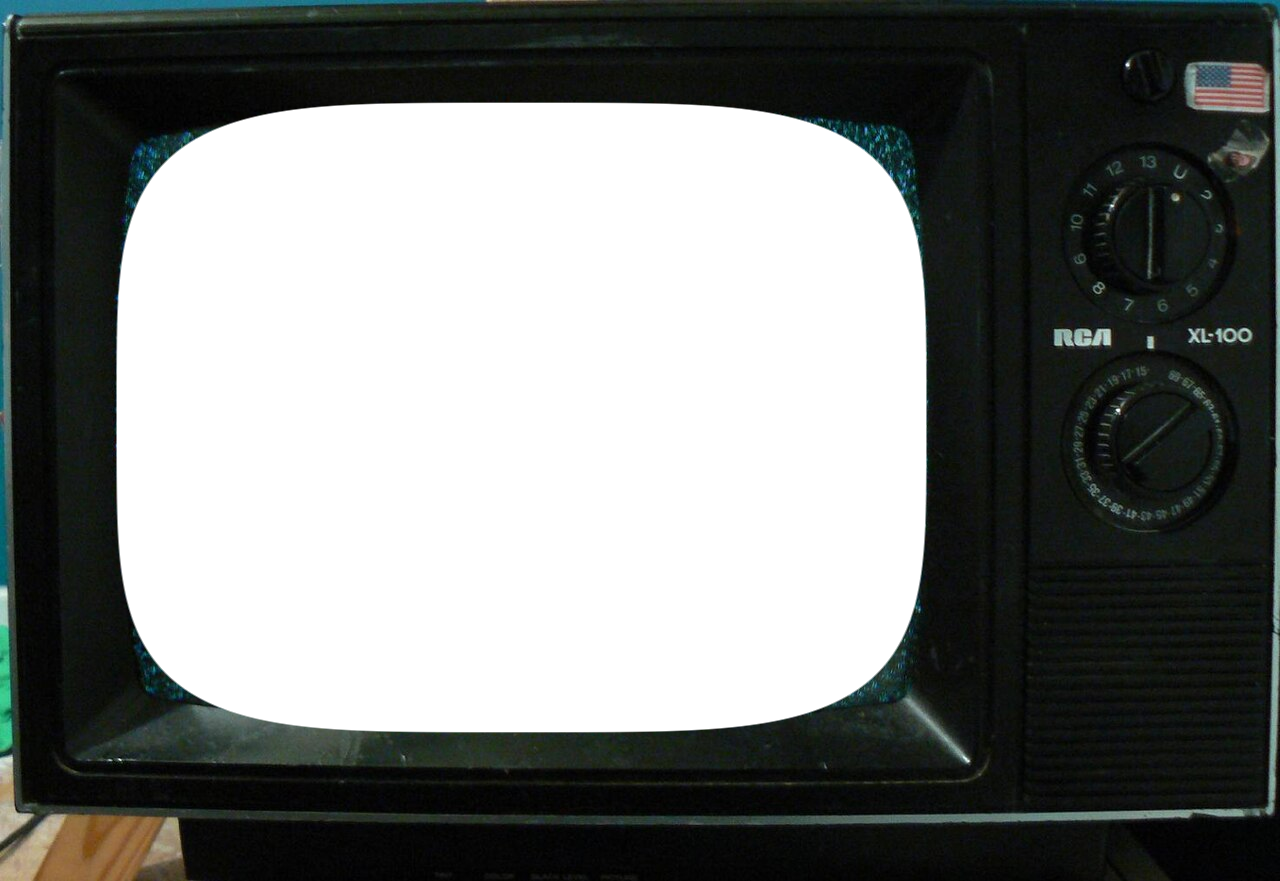
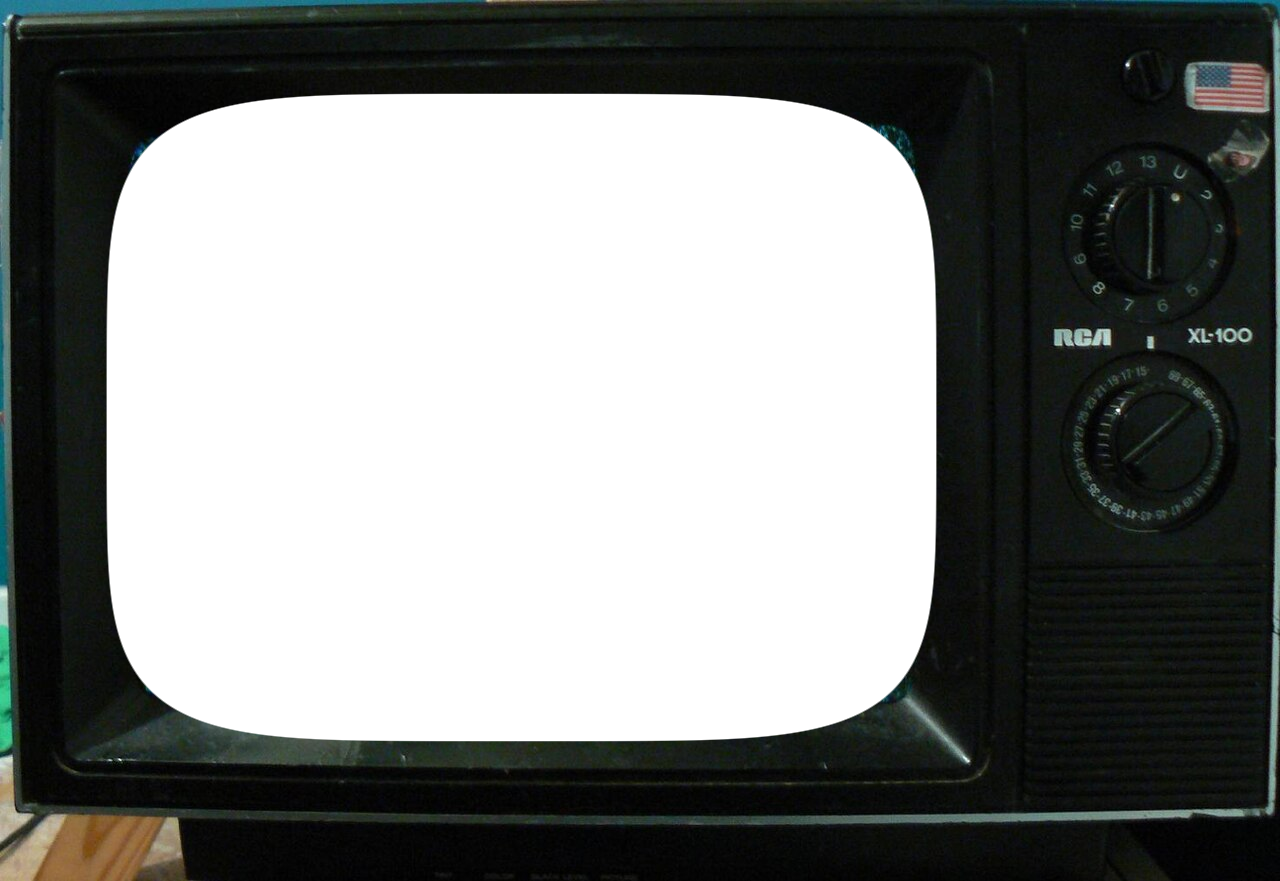
WIP checkpoint
Claude-Session: https://claude.ai/code/session_017jFZyLRaZgvs1oTMXrXxKe

Changed region(s): [[0.0625, 0.0919, 0.75, 0.8581]]

diff --git a/compositions/c5s02.html b/compositions/c5s02.html
@@ -820,8 +820,8 @@
       add(sh, `<div class="k-full" style="background:radial-gradient(ellipse 70% 60% at 50% 40%, #2c241c 0%, #15120f 60%, #0b0a09 100%)"></div>`);
       add(sh, `<div class="k-abs" style="left:0;top:880px;width:1920px;height:200px;background:linear-gradient(180deg,#3a2a1c,#1b130c)"></div>`);
       const c = add(sh, `<div class="k-full" style="transform-origin:857px 498px"></div>`);
-      const tube = add(c, `<div class="k-tube" style="left:508px;top:228px;width:700px;height:543px"></div>`);
-      const scr = add(tube, `<div class="k-full" style="left:0;top:0;width:700px;height:543px;transform-origin:50% 50%"><img src="${PH}nixon_official_portrait_nara530679.jpg" style="position:absolute;left:0;top:-140px;width:700px;height:827px;object-fit:cover;filter:saturate(0.6) contrast(1.15) brightness(1.05) blur(0.7px)"/><div class="k-scan"></div><div class="k-full" style="width:700px;height:543px;background:radial-gradient(ellipse at 50% 50%, rgba(255,255,255,0.08), rgba(0,0,0,0.5) 100%)"></div></div>`);
+      const tube = add(c, `<div class="k-tube" style="left:496px;top:216px;width:724px;height:566px"></div>`);
+      const scr = add(tube, `<div class="k-full" style="left:0;top:0;width:724px;height:566px;transform-origin:50% 50%"><img src="${PH}nixon_official_portrait_nara530679.jpg" style="position:absolute;left:0;top:-140px;width:724px;height:855px;object-fit:cover;filter:saturate(0.6) contrast(1.15) brightness(1.05) blur(0.7px)"/><div class="k-scan"></div><div class="k-full" style="width:700px;height:543px;background:radial-gradient(ellipse at 50% 50%, rgba(255,255,255,0.08), rgba(0,0,0,0.5) 100%)"></div></div>`);
       const crt = add(tube, `<div class="k-full" style="width:700px;height:543px;background:#fff;opacity:0"></div>`);
       add(c, `<img src="assets/c5/screens/rca_xl100_frame.png" style="position:absolute;left:410px;top:140px;width:1100px;height:757px;filter:brightness(0.85) contrast(1.05)"/>`);
       add(c, `<div class="k-abs" style="left:520px;top:236px;width:420px;height:200px;background:linear-gradient(160deg, rgba(255,255,255,0.10), rgba(255,255,255,0) 60%);pointer-events:none"></div>`);
@@ -872,10 +872,9 @@
       for (let h = 1; h <= 12; h++) { const a = h * Math.PI / 6; face += `<text x="${(Math.sin(a) * 222).toFixed(1)}" y="${(-Math.cos(a) * 222 + 20).toFixed(1)}" text-anchor="middle" font-size="58" fill="${INK}" class="t-serif">${h}</text>`; }
       ck.innerHTML = face + `<g id="${SEG}-hh"><path d="M-12 30 L-8 -160 L0 -176 L8 -160 L12 30 Z" fill="${INK}"/></g><g id="${SEG}-mh"><path d="M-8 36 L-5 -258 L0 -272 L5 -258 L8 36 Z" fill="${INK}"/></g><circle r="16" fill="${INK}"/><circle r="6" fill="#b9a98a"/>`;
       const hh = $("hh"), mh = $("mh");
-      gsap.set(hh, { rotation: 30 * 5 + 6, transformOrigin: "0 0", svgOrigin: "0 0" });
-      gsap.set(mh, { rotation: 72, svgOrigin: "0 0" });
-      tl.fromTo(mh, { rotation: 72 }, { rotation: 72 - 360, duration: 1.4, ease: C(E.inOut, 1.4), svgOrigin: "0 0", immediateRender: true }, S(315.88));
-      tl.fromTo(hh, { rotation: 156 }, { rotation: 126, duration: 1.4, ease: C(E.inOut, 1.4), svgOrigin: "0 0", immediateRender: true }, S(315.88));
+      const hand = { m: 72, h: 156 }, setH = () => { mh.setAttribute("transform", `rotate(${hand.m.toFixed(2)})`); hh.setAttribute("transform", `rotate(${hand.h.toFixed(2)})`); };
+      setH();
+      tl.fromTo(hand, { m: 72, h: 156 }, { m: 72 - 360, h: 126, duration: 1.4, ease: C(E.inOut, 1.4), onUpdate: setH, immediateRender: true }, S(315.88));
       tl.fromTo(ck, { opacity: 0, scale: 0.92 }, { opacity: 1, scale: 1, duration: 0.8, ease: C(E.out, 0.8), immediateRender: true }, S(314.98));
       const ln = add(c, `<div class="k-abs t-serif k-ink" style="left:1000px;top:250px;font-size:96px;white-space:nowrap"><span class="k-inkbox" style="color:${YEL};font-weight:700"><span class="k-w">an </span><span class="k-w">hour</span></span> <span class="k-w">before</span></div>`);
       ln.w = ln.querySelectorAll(".k-w"); say(ln, [T(315.84), T(316.00), T(316.40)], { dur: 0.7, y: 10 });

diff --git a/project/c5/gen/c5s02_template.html b/project/c5/gen/c5s02_template.html
@@ -820,8 +820,8 @@
       add(sh, `<div class="k-full" style="background:radial-gradient(ellipse 70% 60% at 50% 40%, #2c241c 0%, #15120f 60%, #0b0a09 100%)"></div>`);
       add(sh, `<div class="k-abs" style="left:0;top:880px;width:1920px;height:200px;background:linear-gradient(180deg,#3a2a1c,#1b130c)"></div>`);
       const c = add(sh, `<div class="k-full" style="transform-origin:857px 498px"></div>`);
-      const tube = add(c, `<div class="k-tube" style="left:508px;top:228px;width:700px;height:543px"></div>`);
-      const scr = add(tube, `<div class="k-full" style="left:0;top:0;width:700px;height:543px;transform-origin:50% 50%"><img src="${PH}nixon_official_portrait_nara530679.jpg" style="position:absolute;left:0;top:-140px;width:700px;height:827px;object-fit:cover;filter:saturate(0.6) contrast(1.15) brightness(1.05) blur(0.7px)"/><div class="k-scan"></div><div class="k-full" style="width:700px;height:543px;background:radial-gradient(ellipse at 50% 50%, rgba(255,255,255,0.08), rgba(0,0,0,0.5) 100%)"></div></div>`);
+      const tube = add(c, `<div class="k-tube" style="left:496px;top:216px;width:724px;height:566px"></div>`);
+      const scr = add(tube, `<div class="k-full" style="left:0;top:0;width:724px;height:566px;transform-origin:50% 50%"><img src="${PH}nixon_official_portrait_nara530679.jpg" style="position:absolute;left:0;top:-140px;width:724px;height:855px;object-fit:cover;filter:saturate(0.6) contrast(1.15) brightness(1.05) blur(0.7px)"/><div class="k-scan"></div><div class="k-full" style="width:700px;height:543px;background:radial-gradient(ellipse at 50% 50%, rgba(255,255,255,0.08), rgba(0,0,0,0.5) 100%)"></div></div>`);
       const crt = add(tube, `<div class="k-full" style="width:700px;height:543px;background:#fff;opacity:0"></div>`);
       add(c, `<img src="assets/c5/screens/rca_xl100_frame.png" style="position:absolute;left:410px;top:140px;width:1100px;height:757px;filter:brightness(0.85) contrast(1.05)"/>`);
       add(c, `<div class="k-abs" style="left:520px;top:236px;width:420px;height:200px;background:linear-gradient(160deg, rgba(255,255,255,0.10), rgba(255,255,255,0) 60%);pointer-events:none"></div>`);
@@ -872,10 +872,9 @@
       for (let h = 1; h <= 12; h++) { const a = h * Math.PI / 6; face += `<text x="${(Math.sin(a) * 222).toFixed(1)}" y="${(-Math.cos(a) * 222 + 20).toFixed(1)}" text-anchor="middle" font-size="58" fill="${INK}" class="t-serif">${h}</text>`; }
       ck.innerHTML = face + `<g id="${SEG}-hh"><path d="M-12 30 L-8 -160 L0 -176 L8 -160 L12 30 Z" fill="${INK}"/></g><g id="${SEG}-mh"><path d="M-8 36 L-5 -258 L0 -272 L5 -258 L8 36 Z" fill="${INK}"/></g><circle r="16" fill="${INK}"/><circle r="6" fill="#b9a98a"/>`;
       const hh = $("hh"), mh = $("mh");
-      gsap.set(hh, { rotation: 30 * 5 + 6, transformOrigin: "0 0", svgOrigin: "0 0" });
-      gsap.set(mh, { rotation: 72, svgOrigin: "0 0" });
-      tl.fromTo(mh, { rotation: 72 }, { rotation: 72 - 360, duration: 1.4, ease: C(E.inOut, 1.4), svgOrigin: "0 0", immediateRender: true }, S(315.88));
-      tl.fromTo(hh, { rotation: 156 }, { rotation: 126, duration: 1.4, ease: C(E.inOut, 1.4), svgOrigin: "0 0", immediateRender: true }, S(315.88));
+      const hand = { m: 72, h: 156 }, setH = () => { mh.setAttribute("transform", `rotate(${hand.m.toFixed(2)})`); hh.setAttribute("transform", `rotate(${hand.h.toFixed(2)})`); };
+      setH();
+      tl.fromTo(hand, { m: 72, h: 156 }, { m: 72 - 360, h: 126, duration: 1.4, ease: C(E.inOut, 1.4), onUpdate: setH, immediateRender: true }, S(315.88));
       tl.fromTo(ck, { opacity: 0, scale: 0.92 }, { opacity: 1, scale: 1, duration: 0.8, ease: C(E.out, 0.8), immediateRender: true }, S(314.98));
       const ln = add(c, `<div class="k-abs t-serif k-ink" style="left:1000px;top:250px;font-size:96px;white-space:nowrap"><span class="k-inkbox" style="color:${YEL};font-weight:700"><span class="k-w">an </span><span class="k-w">hour</span></span> <span class="k-w">before</span></div>`);
       ln.w = ln.querySelectorAll(".k-w"); say(ln, [T(315.84), T(316.00), T(316.40)], { dur: 0.7, y: 10 });

diff --git a/compositions/c5s01.html b/compositions/c5s01.html
@@ -1304,9 +1304,10 @@
       pop("sc031-a", S(137.85), { from: 0.7, dur: 1.0 });
       pop("sc031-b", S(139.19), { from: 0.6, dur: 1.0 });
       words("sc031-tg", [["Taiwanese", T(139.21) - L], ["government", T(139.85) - L]]);
-      FX.markup.arrow(tl, svg, S(140.40), { x1: 760, y1: 400, x2: 1180, y2: 400, bend: -110, head: 30, dur: 0.75, color: INK, width: 6, filter: MK });
+      const hideTill = (ps, t) => { gsap.set(ps, { opacity: 0 }); tl.set(ps, { opacity: 1 }, t); };
+      hideTill(FX.markup.arrow(tl, svg, S(140.40), { x1: 760, y1: 400, x2: 1180, y2: 400, bend: -110, head: 30, dur: 0.75, color: INK, width: 6, filter: MK }), S(140.40));
       words("sc031-ad", [["advice", T(141.29) - L]]);
-      FX.markup.arrow(tl, svg, S(142.40), { x1: 1190, y1: 600, x2: 740, y2: 600, bend: -110, head: 30, dur: 0.75, color: INK, width: 6, filter: MK });
+      hideTill(FX.markup.arrow(tl, svg, S(142.40), { x1: 1190, y1: 600, x2: 740, y2: 600, bend: -110, head: 30, dur: 0.75, color: INK, width: 6, filter: MK }, S(142.40));
       words("sc031-in", [["information", T(142.81) - L]]);
       drop("sc031-gl", S(145.20), { dur: 0.7 });
       const gl = $("sc031-gline"); const gL = gl.getTotalLength();
@@ -1366,7 +1367,7 @@
       const c = $("sc036-cam"), svg = $("sc036-svg");
       gsap.set(c, cam(1350, 1150, 0.72));
       tl.fromTo(c, cam(1350, 1150, 0.72), Object.assign(cam(1450, 1330, 0.84), { duration: 6.9, ease: E.cam, immediateRender: true }), S(163.77));
-      tl.fromTo($("sc036-cf"), { opacity: 0 }, { opacity: 0.78, duration: 1.0, ease: C(E.out, 1.0), immediateRender: true }, S(166.17));
+      tl.fromTo($("sc036-cf"), { opacity: 0 }, { opacity: 0.6, duration: 1.0, ease: C(E.out, 1.0), immediateRender: true }, S(166.17));
       tl.fromTo($("sc036-cg"), { opacity: 0 }, { opacity: 0.9, duration: 1.2, ease: C(E.out, 1.2), immediateRender: true }, S(166.30));
       const lab = $("sc036-lab");
       [[["bigger", T(166.17) - L], ["economy", T(166.49) - L]], [["bigger", T(167.61) - L], ["landmass", T(167.93) - L]], [["bigger", T(168.65) - L], ["population", T(169.05) - L]]].forEach((ws, i) => {
@@ -1467,8 +1468,8 @@
     (function () {
       tl.fromTo($("sc042-cam"), { scale: 1.0 }, { scale: 1.06, duration: 3.1, ease: "none", immediateRender: true }, S(191.10));
       const svg = $("sc042-mk");
-      FX.markup.arrow(tl, svg, S(192.10), { x1: 900, y1: 520, x2: 420, y2: 820, bend: 60, head: 36, dur: 0.6, color: RED, width: 10, filter: MK });
-      FX.markup.arrow(tl, svg, S(192.40), { x1: 1000, y1: 520, x2: 1560, y2: 230, bend: 120, head: 36, dur: 0.7, color: CEL, width: 10, filter: MK });
+      { const ps = FX.markup.arrow(tl, svg, S(192.10), { x1: 900, y1: 520, x2: 420, y2: 820, bend: 60, head: 36, dur: 0.6, color: RED, width: 10, filter: MK }); gsap.set(ps, { opacity: 0 }); tl.set(ps, { opacity: 1 }, S(192.10)); }
+      { const ps = FX.markup.arrow(tl, svg, S(192.40), { x1: 1000, y1: 520, x2: 1560, y2: 230, bend: 120, head: 36, dur: 0.7, color: CEL, width: 10, filter: MK }); gsap.set(ps, { opacity: 0 }); tl.set(ps, { opacity: 1 }, S(192.40)); }
       words("sc042-dd", [["different", T(193.02) - L], ["direction", T(193.42) - L]], { durs: [0.5, 0.45] });
       // hand-off: light-flash whip begins @194.06 — smear right, peak bone flash on the boundary frame (c5s02 resolves it)
       const bo = FX.whipDefs(defs, SEG + "-wout");

diff --git a/project/c5/gen/c5s02_assets.py b/project/c5/gen/c5s02_assets.py
@@ -165,7 +165,7 @@ def maps():
 
 def tv():
     im = Image.open(ROOT+"/_tmp/c5s02/rca_xl100.jpg").convert("RGBA")
-    W, H = im.size; cx, cy, a, b, n = 521, 417, 404, 314, 4.2
+    W, H = im.size; cx, cy, a, b, n = 521, 417, 414, 323, 5.0
     yy, xx = np.mgrid[0:H, 0:W]
     v = np.abs((xx-cx)/a)**n + np.abs((yy-cy)/b)**n
     alpha = np.clip((v-1)/0.02, 0, 1)*255

diff --git a/assets/c5/screens/SOURCES.md b/assets/c5/screens/SOURCES.md
@@ -1,4 +1,4 @@
 # assets/c5/screens — sources
 | file | subject | source URL | licence / credit | author, date | size |
 |---|---|---|---|---|---|
-| rca_xl100_frame.png (+ `_screen.json`) | RCA XL-100 colour portable TV, straight-on; screen keyed transparent (superellipse n=4.2, cx 521 cy 417 a 404 b 314) by `project/c5/gen/c5s02_assets.py tv` | https://commons.wikimedia.org/wiki/File:RCA_XL-100_20110627.jpg (1280 px thumbnail) | CC BY-SA 3.0 — on-screen credit | Commons user, photo 2011 (set 1970s) | 1280x881 |
+| rca_xl100_frame.png (+ `_screen.json`) | RCA XL-100 colour portable TV, straight-on; screen keyed transparent (superellipse n=5, cx 521 cy 417 a 414 b 323) by `project/c5/gen/c5s02_assets.py tv` | https://commons.wikimedia.org/wiki/File:RCA_XL-100_20110627.jpg (1280 px thumbnail) | CC BY-SA 3.0 — on-screen credit | Commons user, photo 2011 (set 1970s) | 1280x881 |
